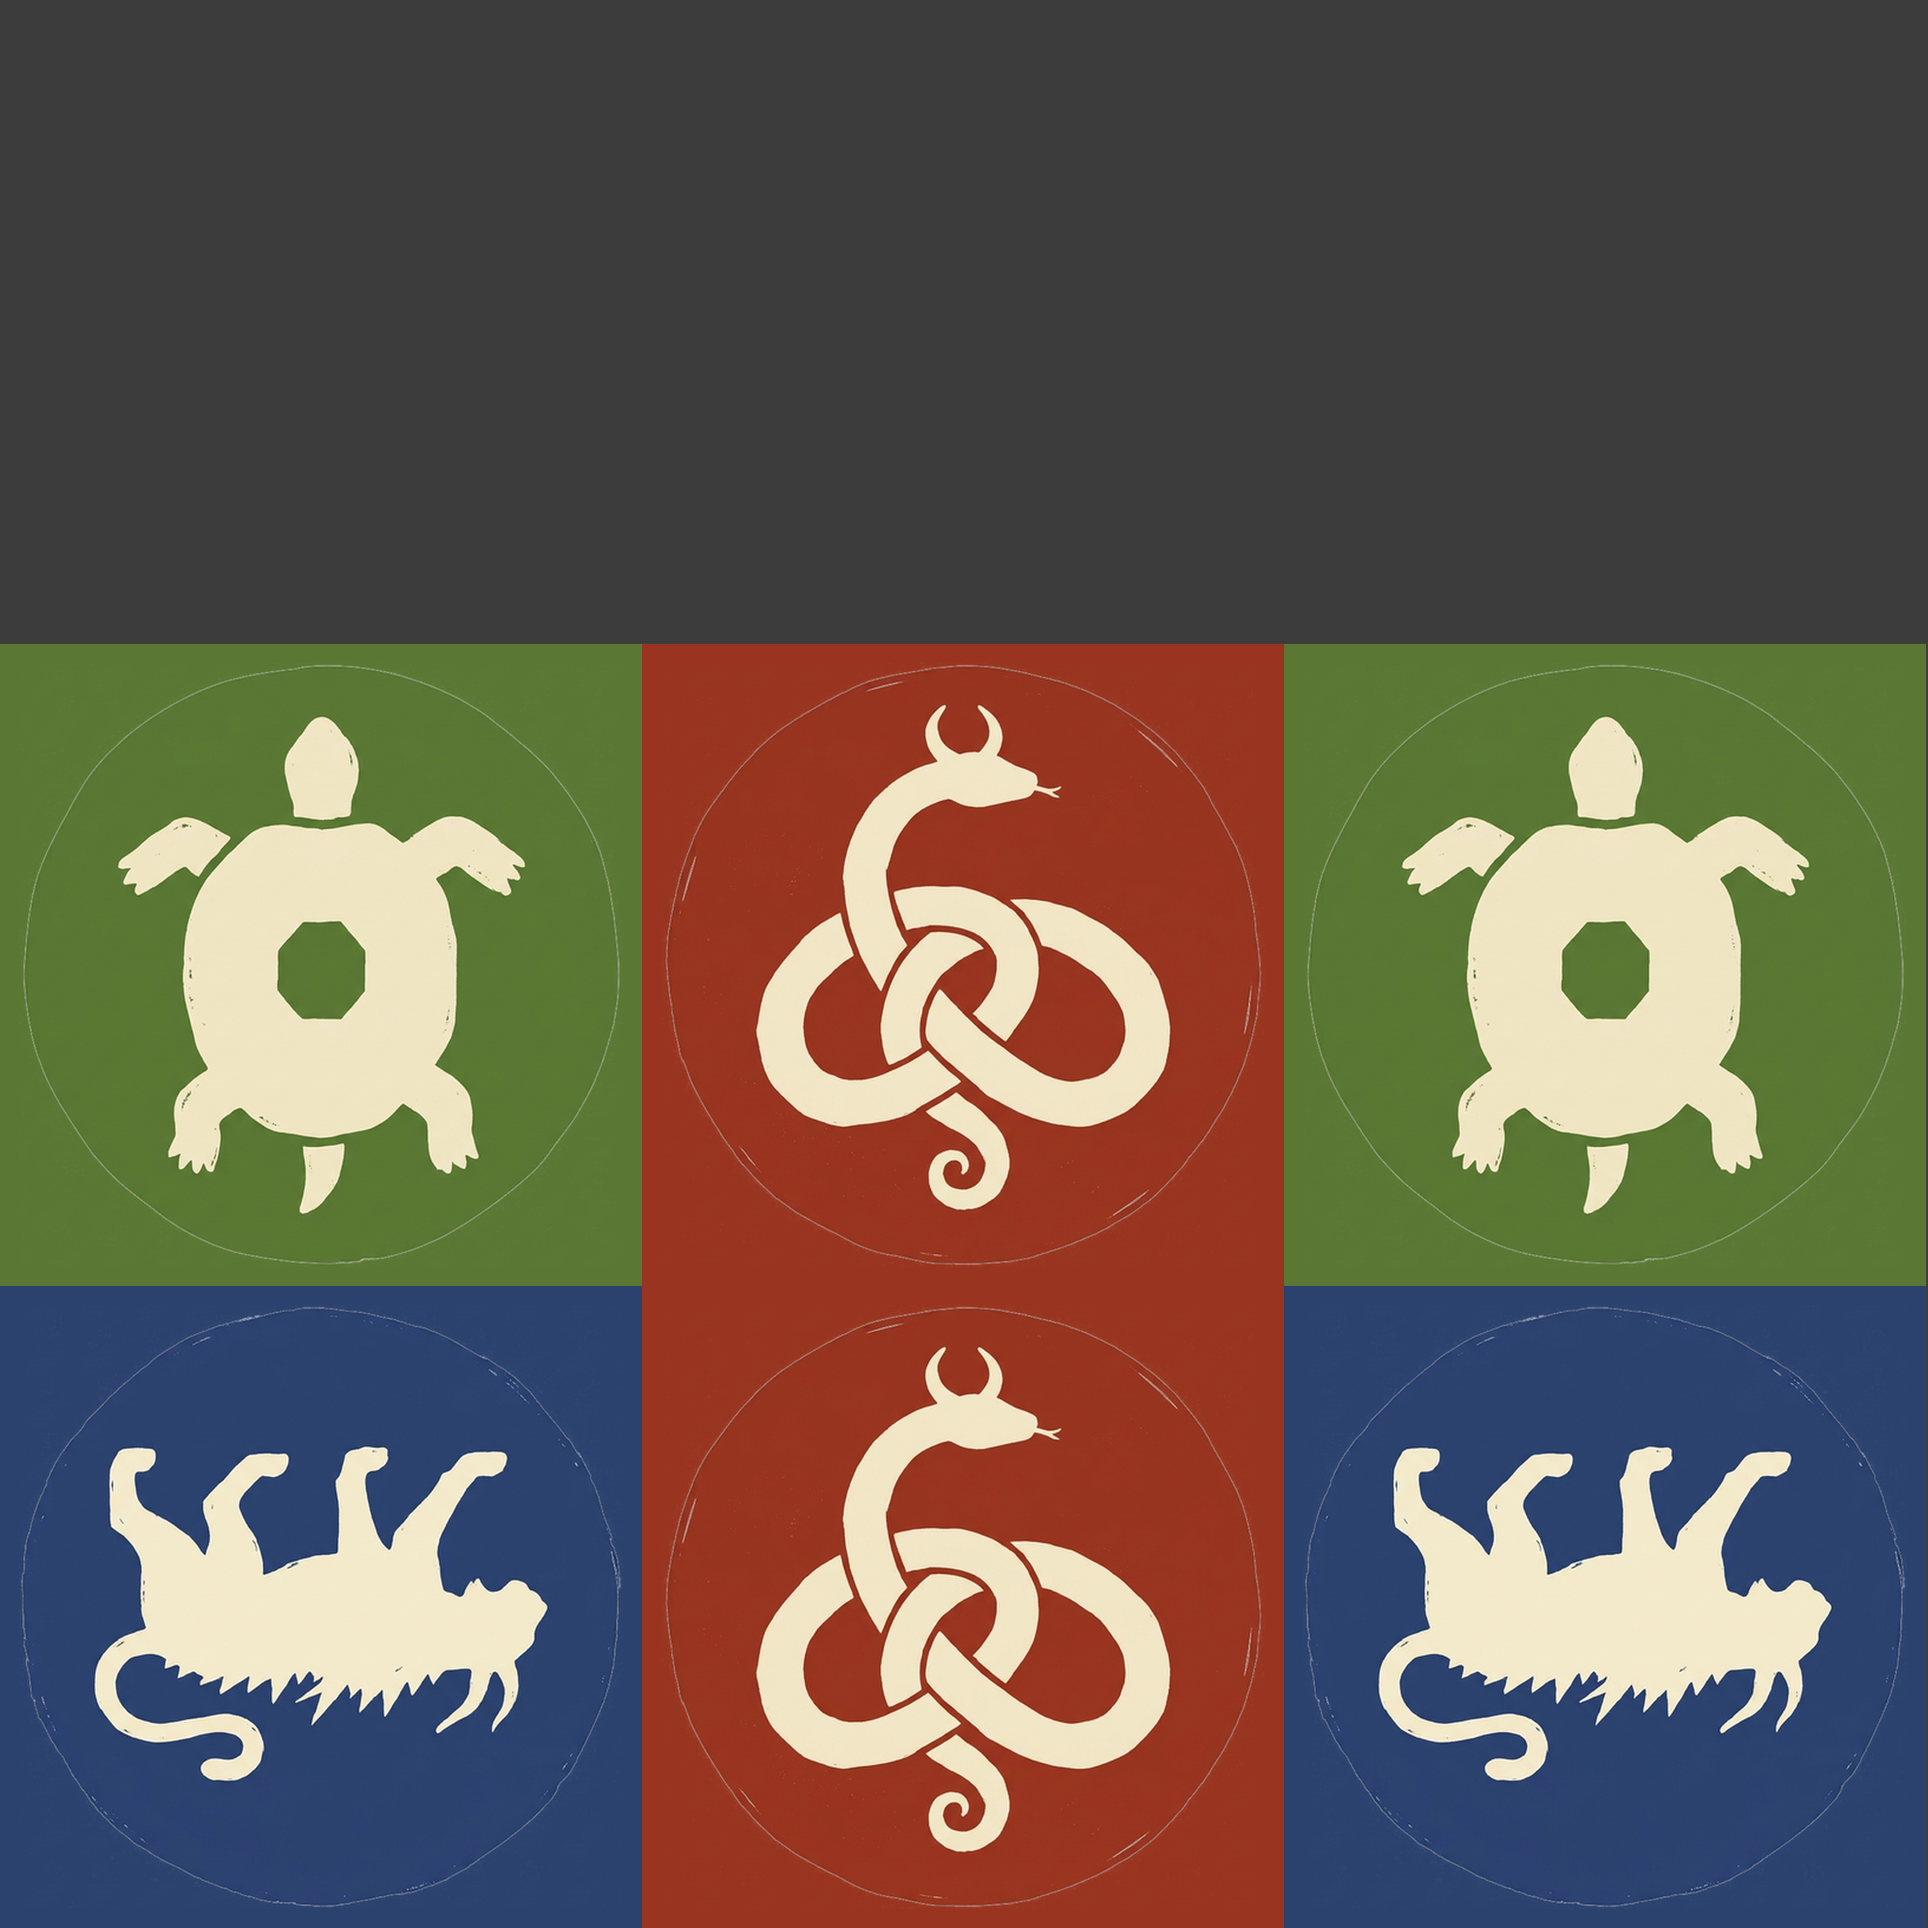
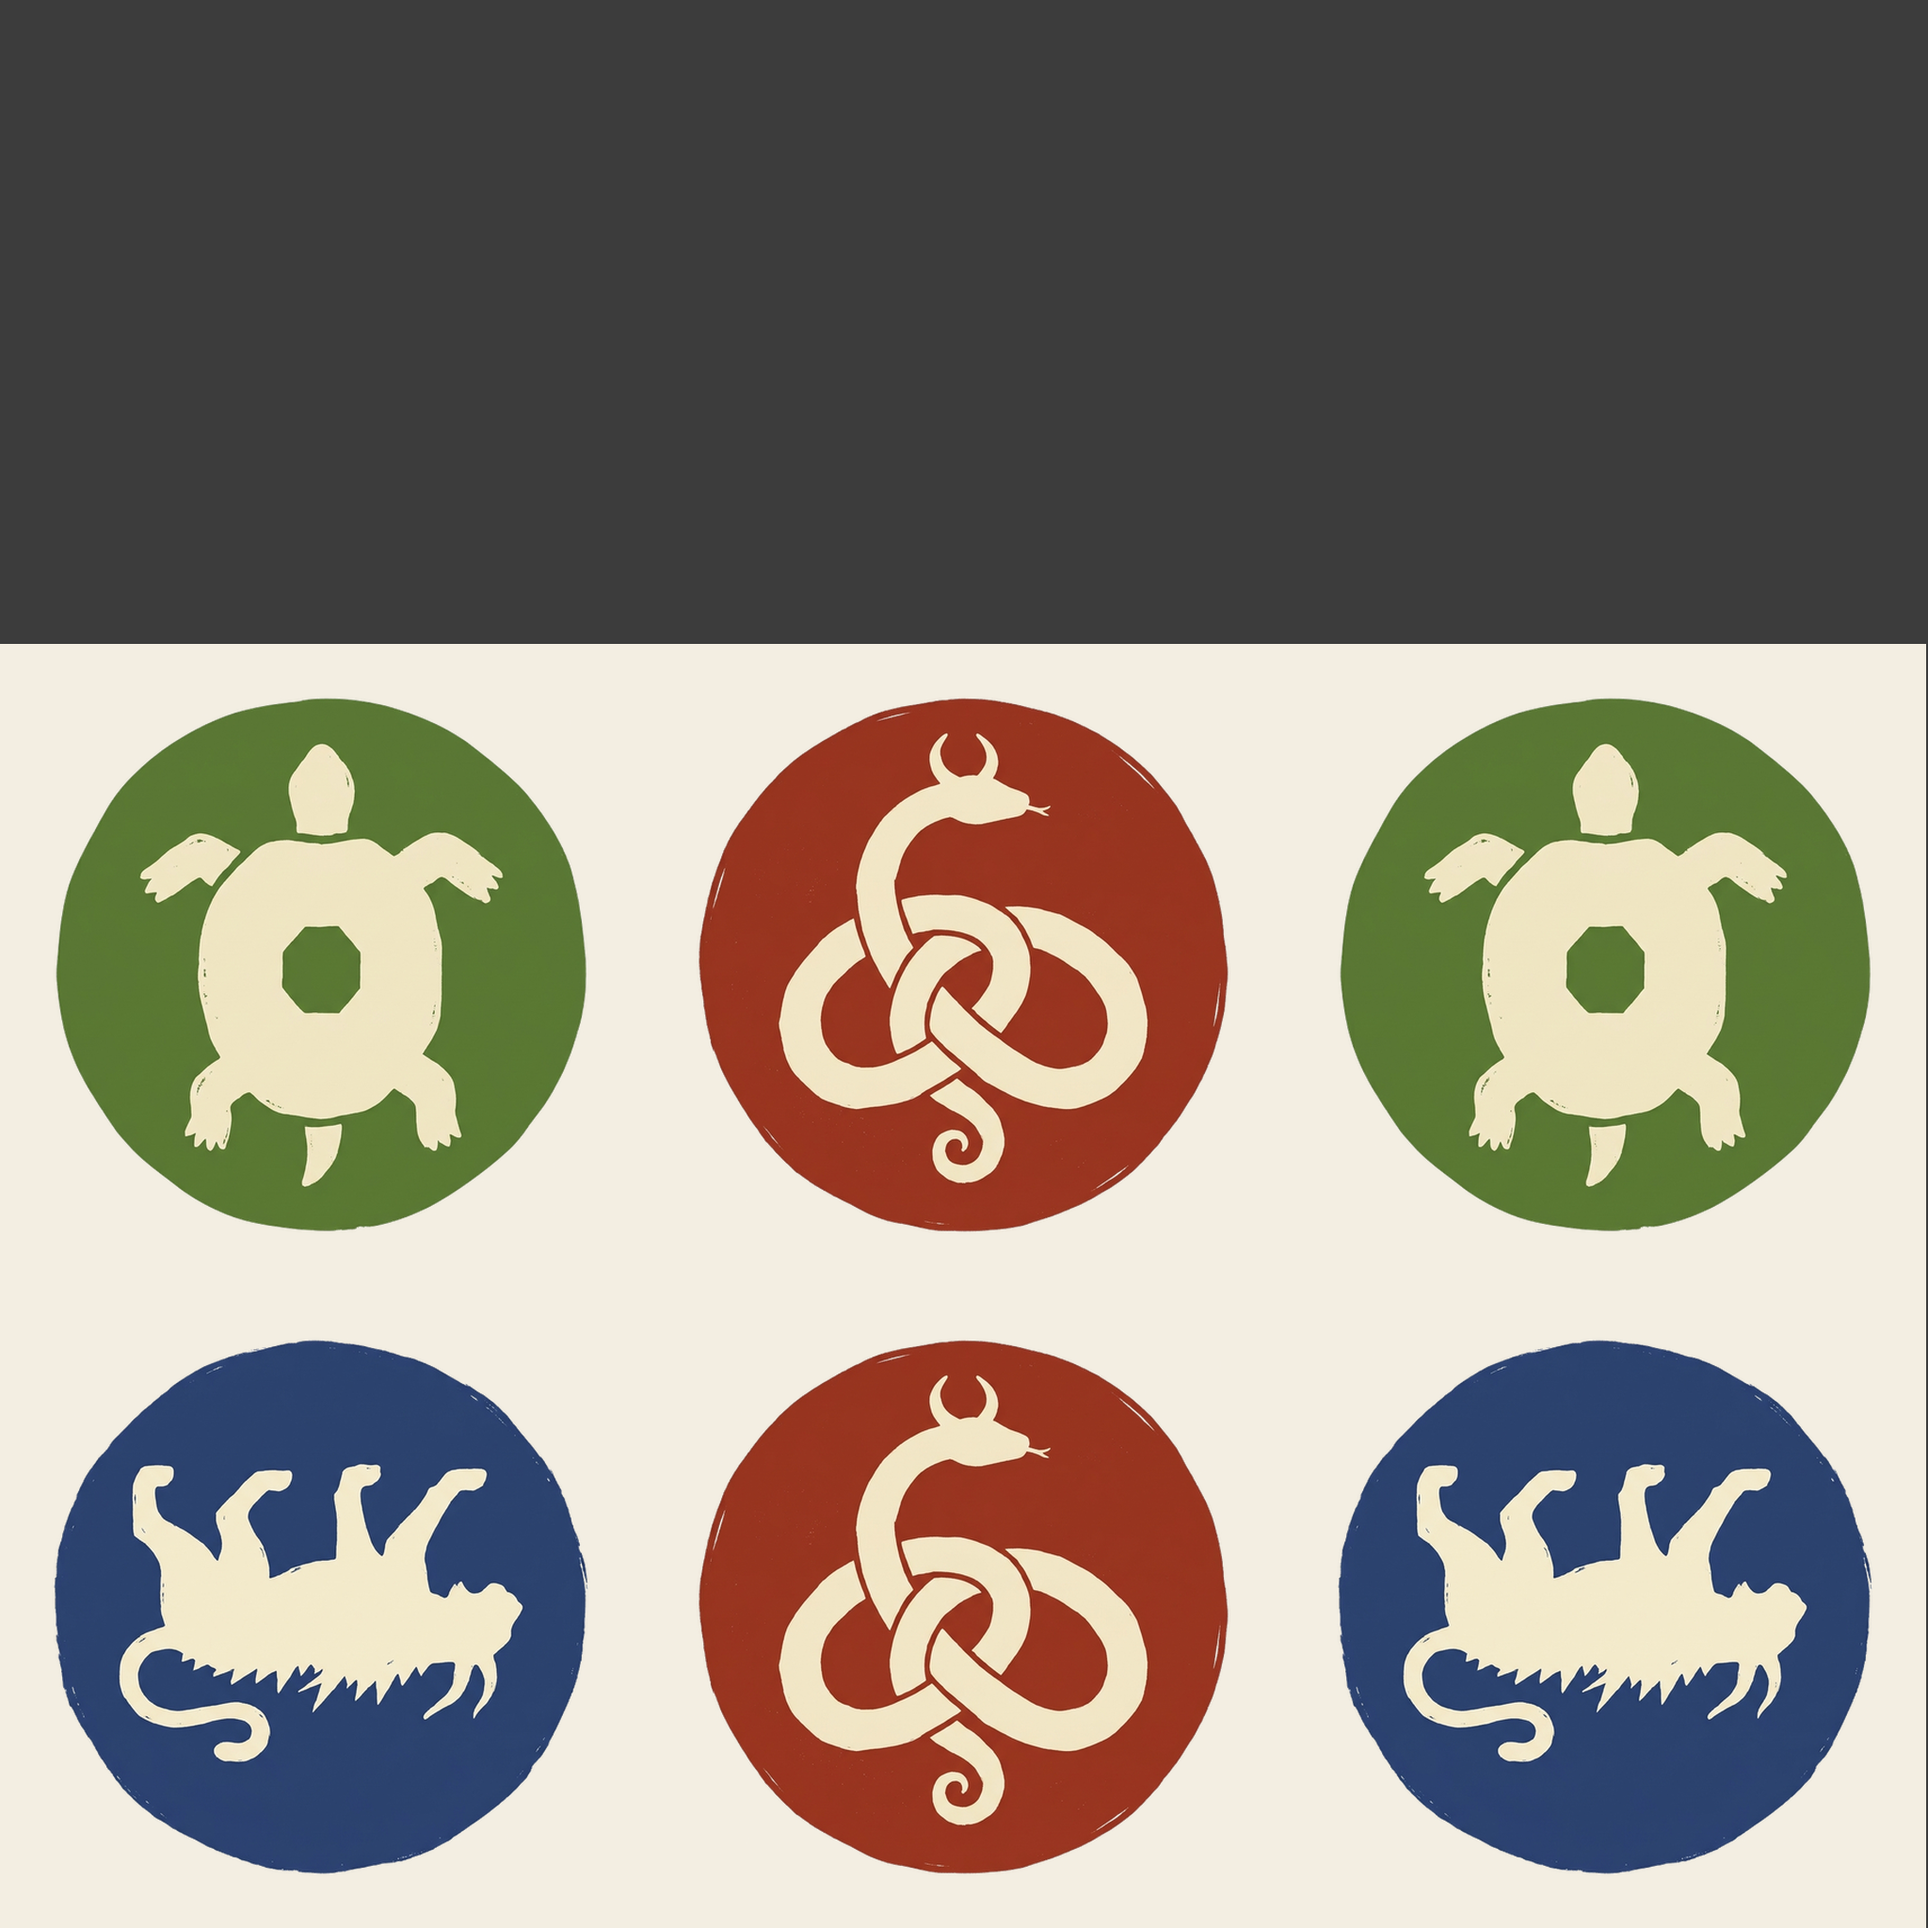
v3.23 : filigranes teintés et plus petits, dé des zones sur fond beige, dés custom à taille normale, rebond 0,3 pour tous les dés ; plateau table_v3_23.png
Claude-Session: https://claude.ai/code/session_01G5suCDEz1h6n5LuZQsei1c

diff --git a/src/regions_symboles.py b/src/regions_symboles.py
@@ -14,12 +14,12 @@ C = 2048//3; POS = {2: (0, 0), 4: (1, 0), 5: (2, 0), 1: (0, 1), 3: (1, 1), 6: (2
 REG = {1: 'mishipeshu', 6: 'mishipeshu', 2: 'tortue', 5: 'tortue', 3: 'oniare', 4: 'oniare'}
 D = Image.new('RGB', (2048, 2048), (60, 60, 60))
 for v, k in REG.items():
-    f = Image.new('RGBA', (C, C), fond(MED[k]) + (255,)); m = MED[k].resize((C-40, C-40), Image.LANCZOS)
-    f.alpha_composite(m, (20, 20)); f = f.convert('RGB')
+    f = Image.new('RGBA', (C, C), (243, 238, 226, 255)); m = MED[k].resize((C-110, C-110), Image.LANCZOS)   # fond beige des cartouches
+    f.alpha_composite(m, (55, 55)); f = f.convert('RGB')
     c, r = POS[v]; D.paste(f.rotate(180) if v in (1, 6) else f, (c*C, 2048-2*C+r*C))
 D.save(R+'img/v18/cdice_zones.png')
 # --- 2. cartouches (plateau table_v17r.png, coordonnées en px du plateau)
-T = Image.open(R+'img/v18/table_v3_22.png').convert('RGB')
+T = Image.open(R+'img/v18/table_v3_23.png').convert('RGB')
 W, H = 547, 461; BAND = 79; BG = np.array((243, 238, 226)); INNER = (201, 192, 174)
 CART = [((1660, 1120), '#2F4373', 'mishipeshu'), ((2342, 1312), '#2F4373', 'mishipeshu'), ((779, 1745), '#2F4373', 'mishipeshu'),
         ((1627, 2832), '#6A9A48', 'tortue'), ((1378, 2223), '#6A9A48', 'tortue'), ((2067, 2225), '#6A9A48', 'tortue'),
@@ -28,7 +28,7 @@ def rgb(h): return np.array([int(h[i:i+2], 16) for i in (1, 3, 5)])
 def figure(k, h):                          # silhouette crème du médaillon -> masque
     a = np.array(MED[k]).astype(int); m = (a[:, :, 0] > 190) & (a[:, :, 1] > 180) & (a[:, :, 3] > 200)
     ys, xs = np.nonzero(m); m = Image.fromarray((m*255).astype('uint8')).crop((xs.min(), ys.min(), xs.max()+1, ys.max()+1))
-    s = h/m.height; return m.resize((round(m.width*s), h), Image.LANCZOS)
+    s = min(h/m.height, 300/m.width); return m.resize((round(m.width*s), round(m.height*s)), Image.LANCZOS)
 for (x, y), col, k in CART:
     card = np.array(T.crop((x, y, x+W, y+H))).astype(float); orig = card.copy()
     band = 0.4*rgb(col)+0.6*BG; lum = card.mean(2)
@@ -37,9 +37,9 @@ for (x, y), col, k in CART:
     card[:BAND][~keep] = band
     # corps : fond uni + filigrane du symbole (sépia, 18 %)
     card[BAND+9:] = BG
-    m = np.array(figure(k, 300)).astype(float)/255; mh, mw = m.shape
-    ox, oy = (W-mw)//2, BAND+9+(H-BAND-9-mh)//2; ink = np.array((107, 90, 69))
-    reg = card[oy:oy+mh, ox:ox+mw]; card[oy:oy+mh, ox:ox+mw] = reg*(1-0.18*m[..., None])+ink*0.18*m[..., None]
+    m = np.array(figure(k, 230)).astype(float)/255; mh, mw = m.shape
+    ox, oy = (W-mw)//2, BAND+9+(H-BAND-9-mh)//2; ink = rgb({'#2F4373': '#4A6CC0', '#6A9A48': '#5E9440', '#963A26': '#B5452C'}[col])   # teinte claire et saturée de la Région
+    reg = card[oy:oy+mh, ox:ox+mw]; card[oy:oy+mh, ox:ox+mw] = reg*(1-0.26*m[..., None])+ink*0.26*m[..., None]
     out = Image.fromarray(card.clip(0, 255).astype('uint8')); d = ImageDraw.Draw(out)
     d.rounded_rectangle((13, 13, W-14, H-14), radius=18, outline=INNER, width=2)
     o = np.array(out).astype(float)
@@ -51,5 +51,5 @@ for (x, y), col, k in CART:
     mk = Image.new('L', (W, H), 0); ImageDraw.Draw(mk).rounded_rectangle((2, 2, W-3, H-3), radius=24, fill=255); mk = np.array(mk)[..., None]/255
     o = o*mk+orig*(1-mk)
     T.paste(Image.fromarray(o.clip(0, 255).astype('uint8')), (x, y))
-T.save(R+'img/v18/table_v3_22.png')
+T.save(R+'img/v18/table_v3_23.png')
 print('ok')
